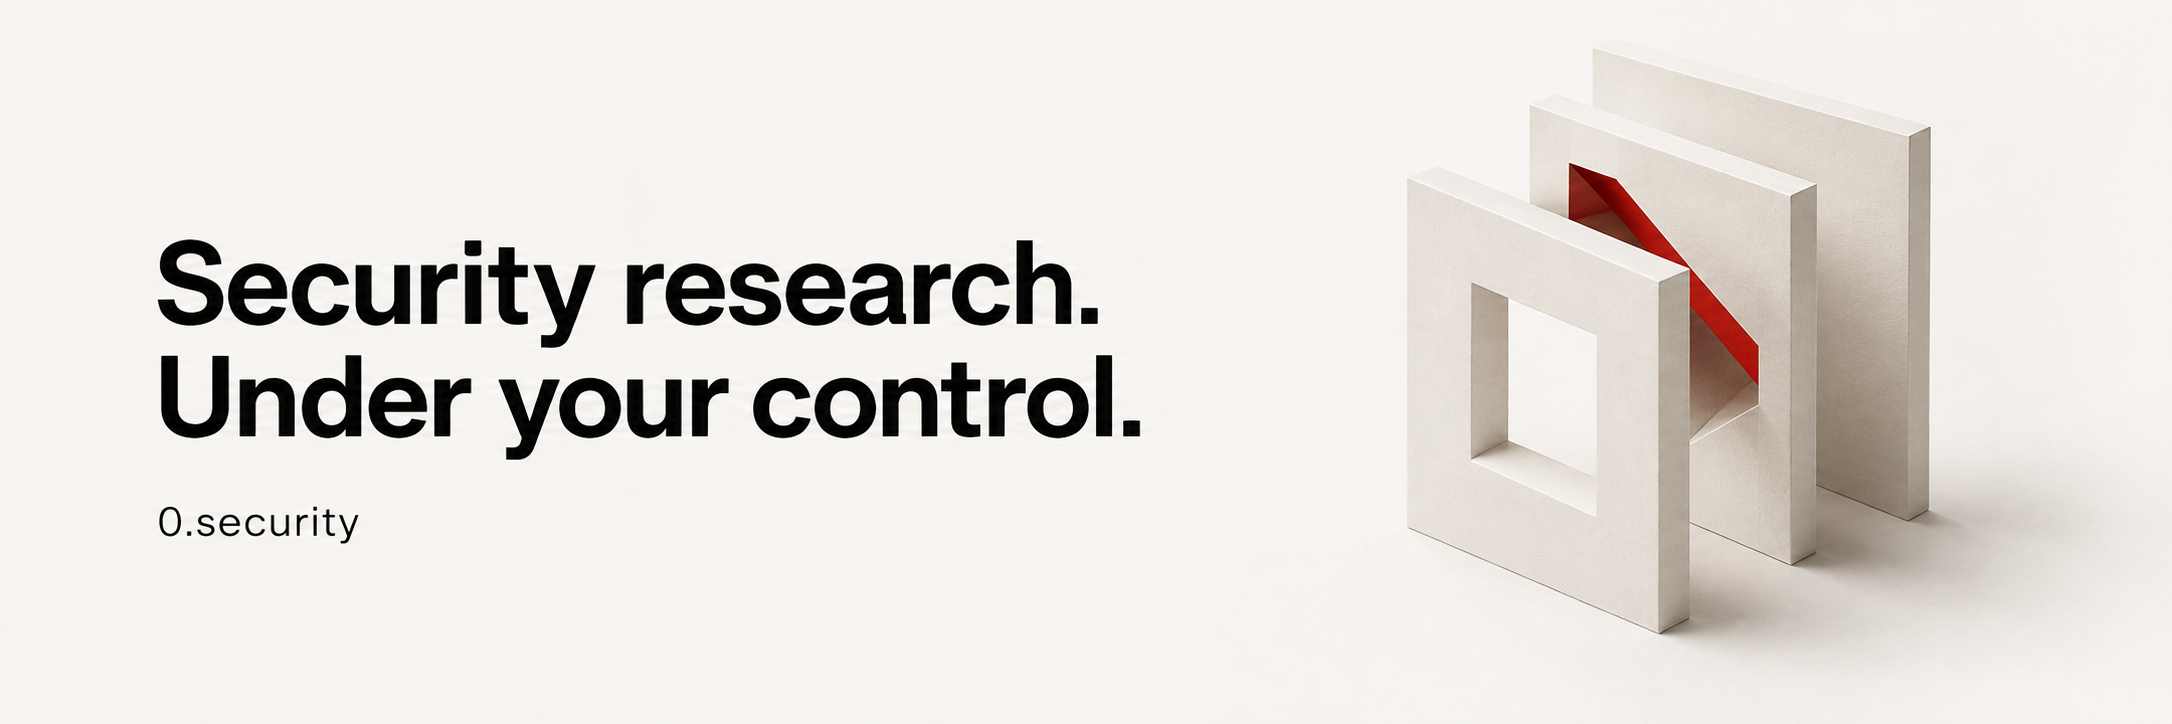
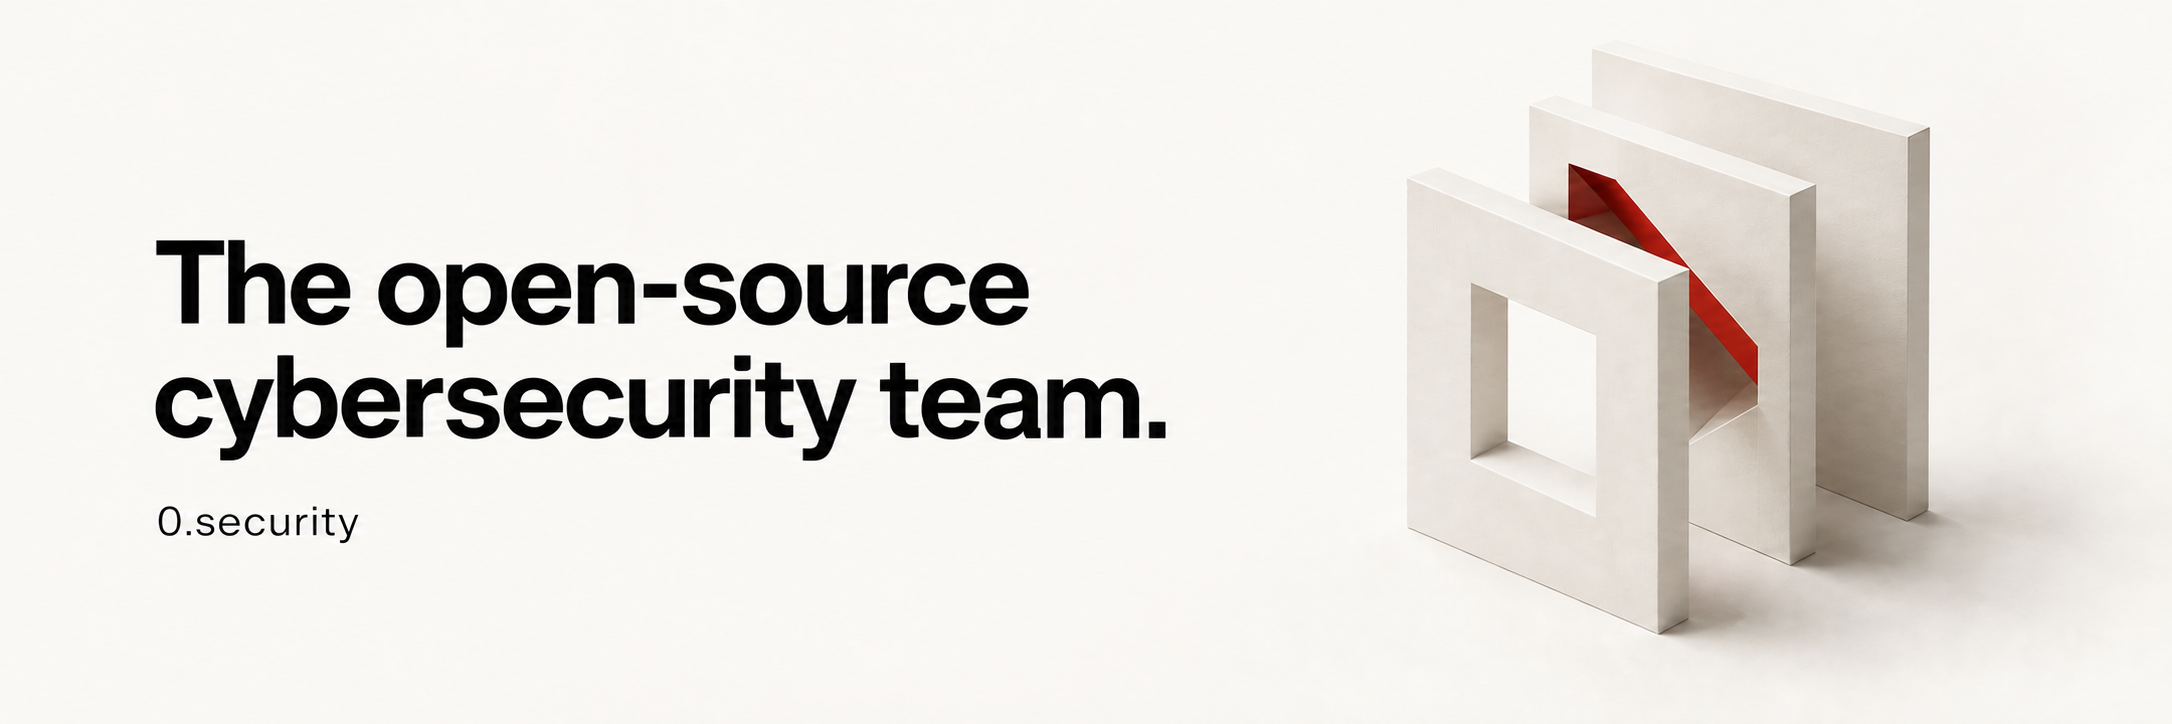
fix(readme): use the website product headline in the cover

diff --git a/README.md b/README.md
@@ -1,6 +1,6 @@
 <p align="center">
   <a href="https://0.security/harness/">
-    <img src="assets/readme-cover.png" alt="Security research. Under your control. An ivory paper sculpture with a crimson edge." width="100%">
+    <img src="assets/readme-cover.png" alt="The open-source cybersecurity team. An ivory paper sculpture with a crimson edge." width="100%">
   </a>
 </p>
 
